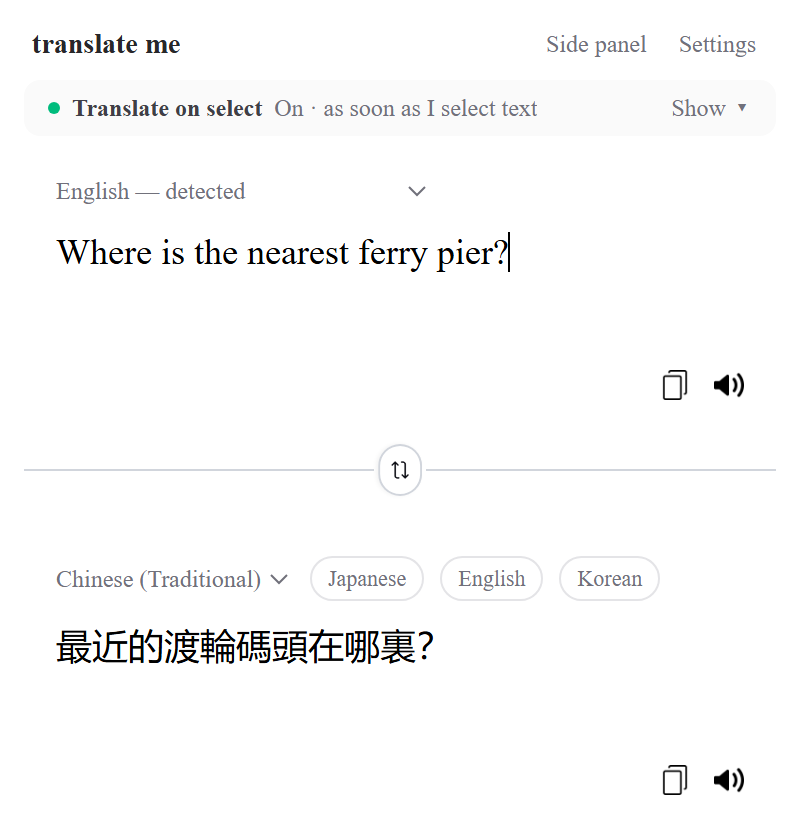
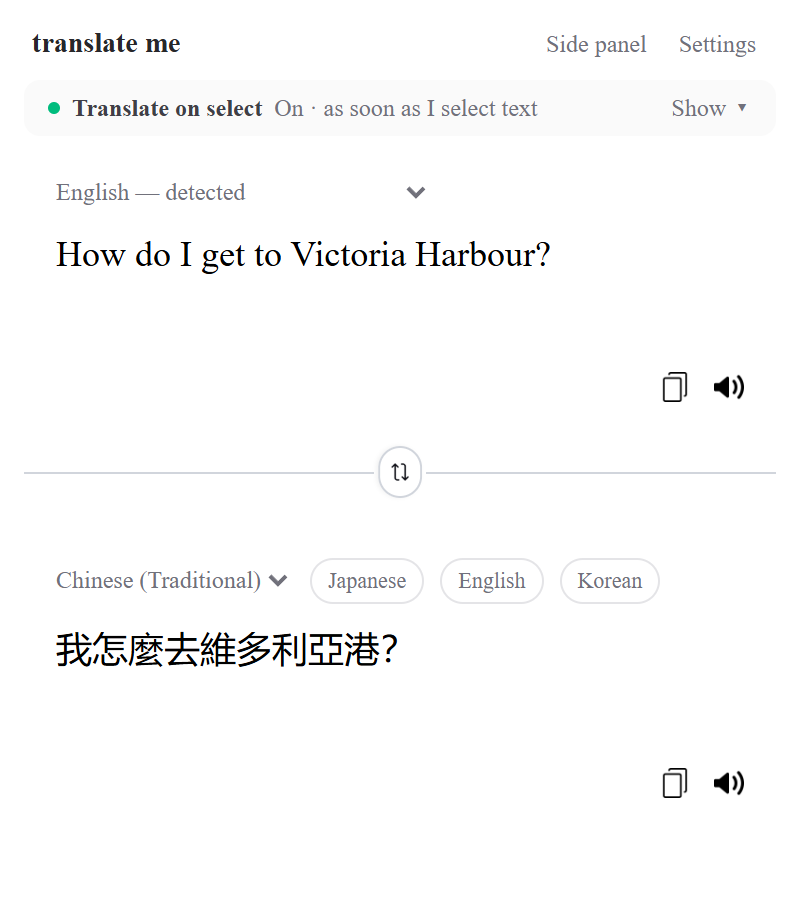
docs: real screenshots in the README
Replace the demo-page screenshots with captures of the real Wikipedia
article on Victoria Harbour, translated by Chrome's built-in model with
the extension's own content script (same as the store listing and website).

diff --git a/README.md b/README.md
@@ -13,7 +13,7 @@
   <p><a href="https://chromewebstore.google.com/detail/translate-me/fkoepnkpnaebnedkdnljkcdchljfoadi"><strong>➜ Add to Chrome — it's free</strong></a></p>
 </div>
 
-![Selecting a paragraph shows its translation in a card right below it](images/highlight.png)
+![Selecting the opening paragraph of the Wikipedia article on Victoria Harbour shows its Traditional Chinese translation in a card right below it](images/highlight.png)
 
 ## Why translate me?
 
@@ -48,11 +48,11 @@ You can turn it off for one site, or everywhere, from the toolbar popup. Selecti
 
 Right-click the page and choose **Translate page to …**. Each paragraph gets its translation underneath, so you can read both. Paragraphs are translated as you scroll, including content that loads later. **Show original** removes it all.
 
-![Each paragraph of an English article followed by its Traditional Chinese translation](images/page-translation.png)
+![The Wikipedia article on Victoria Harbour, each paragraph and caption followed by its Traditional Chinese translation](images/page-translation.png)
 
 ### Popup and side panel
 
-<img src="images/popup.png" alt="The toolbar popup translating a question into Traditional Chinese" width="400" align="right">
+<img src="images/popup.png" alt="The toolbar popup translating &quot;How do I get to Victoria Harbour?&quot; into Traditional Chinese" width="400" align="right">
 
 Type or paste anything into the toolbar popup. The source language is detected for you. The chips are the languages you used most recently; click one to switch. Open the **side panel** if you want the translator to stay open while you browse.
 
